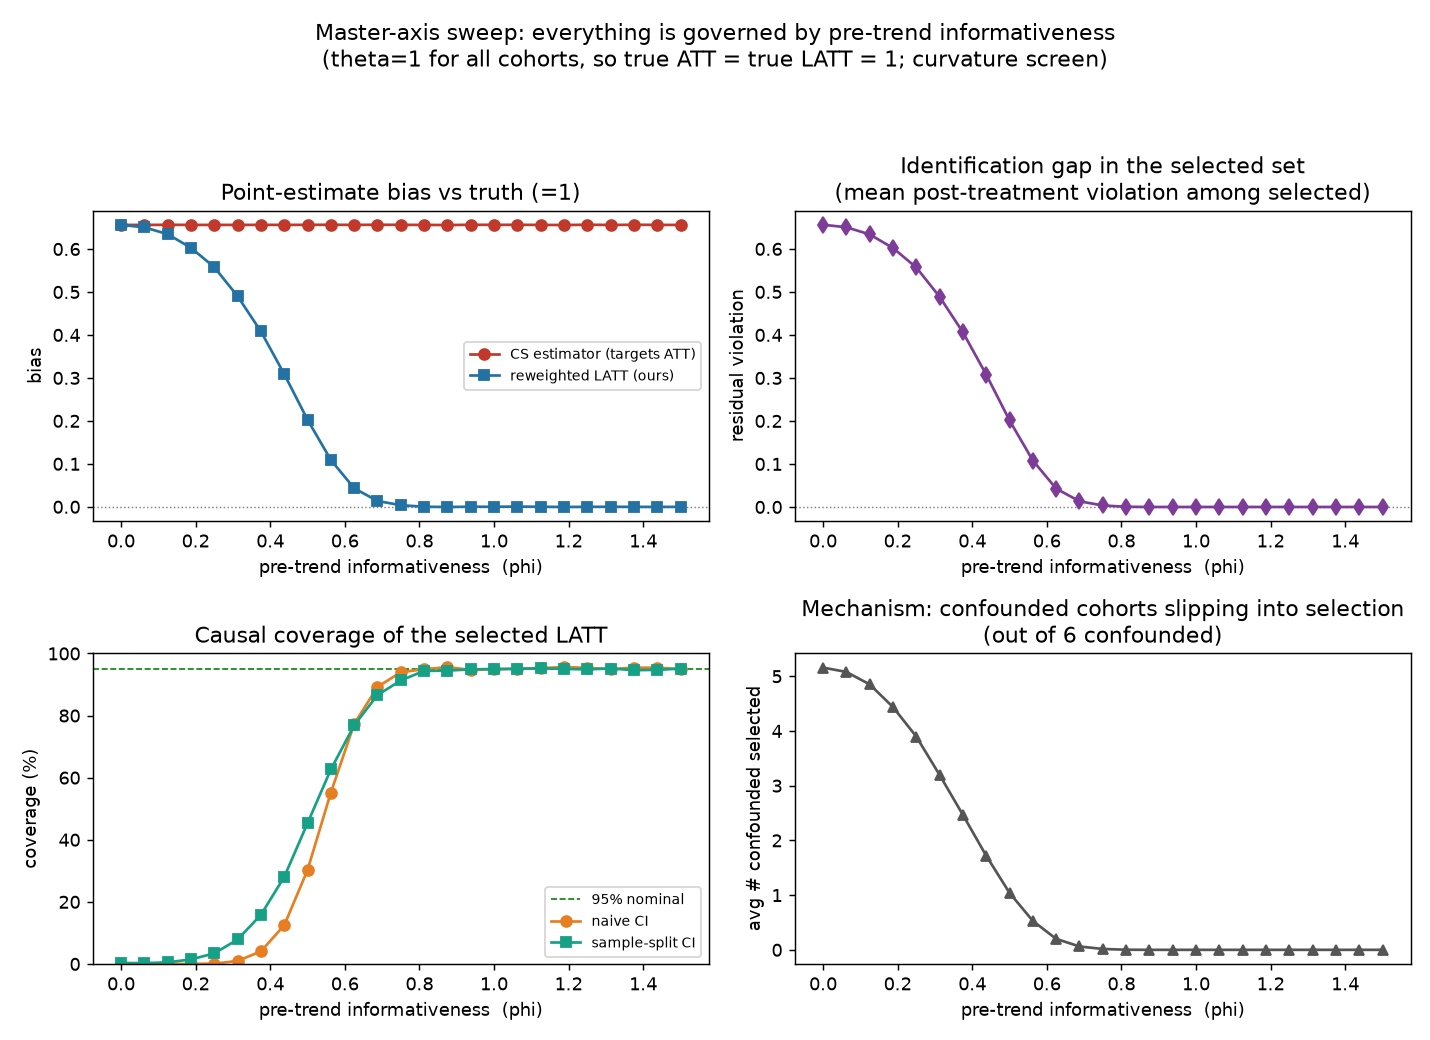
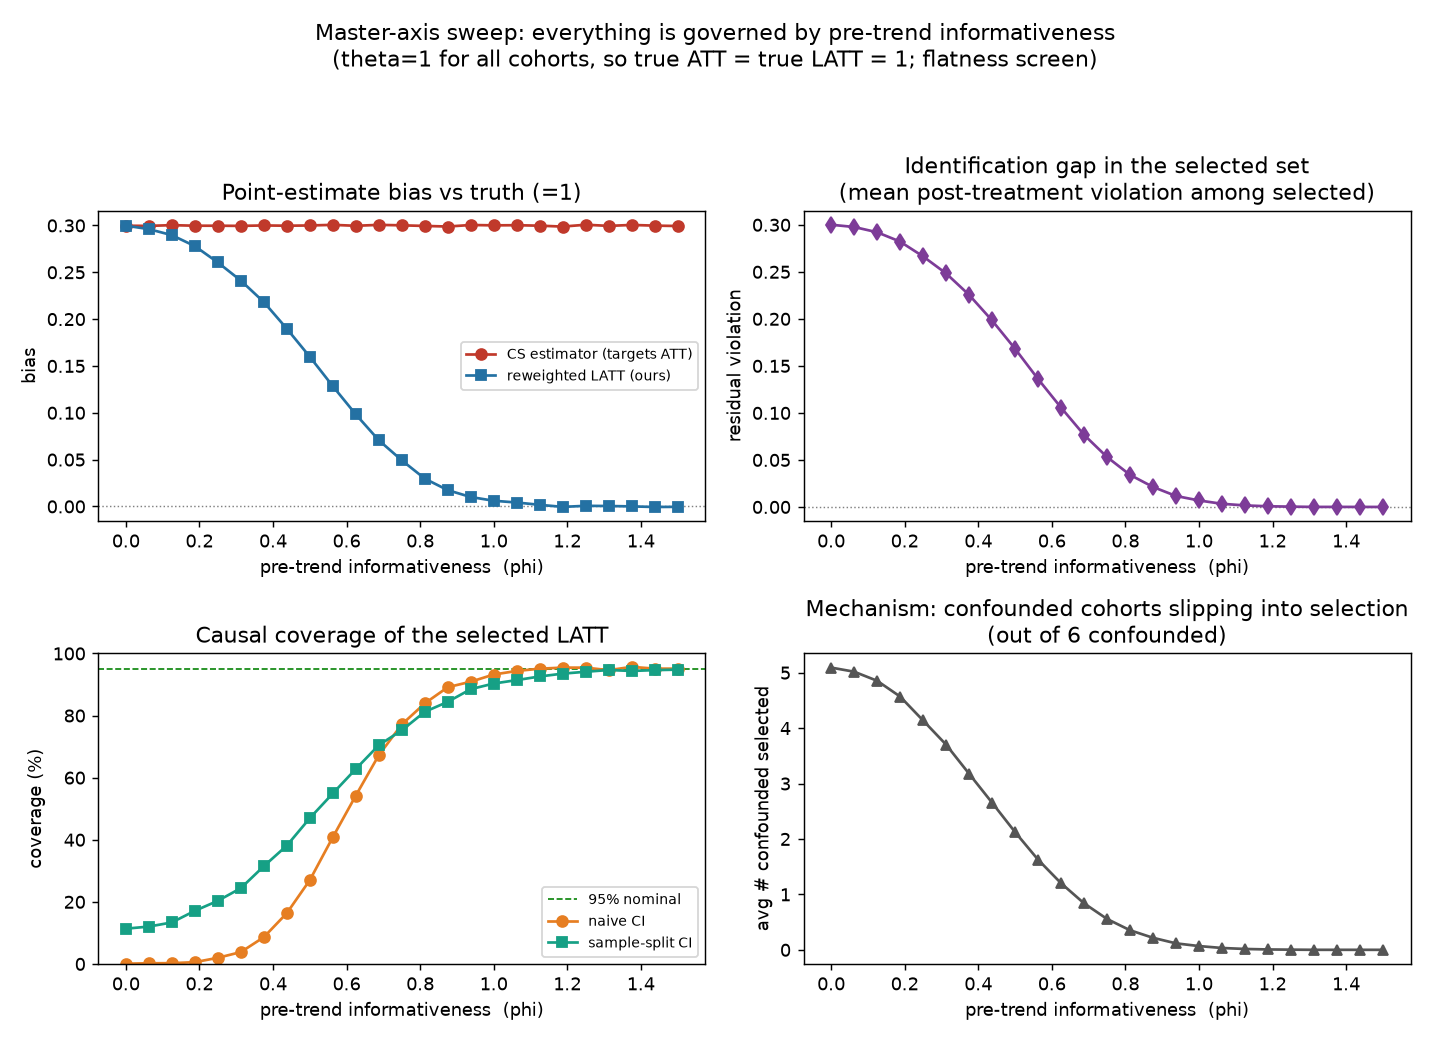
R4a: level-band tier1 + master_axis (flatness screen, level violation)
Revert the estimand and scope sims to the level/flatness world: confounded cohorts
carry a post-treatment level violation V (pre foreshadow phi*V), the FLATNESS screen
max|beta_pre|<=c selects near-flat cohorts, and normal noise (no curvature-screen
precision penalty). Add layer2_full.flci_level (raw post-avg, max bias = M).

Numbers revert to the paper's originals:
- Table 1: CS/ATT bias +0.267, LATT +0.000; sweep LATT bias 0.015 -> 0.
- Scope: CS flat +0.30, LATT 0.30 -> 0, id-gap tracks, confounded slipping 5.09 -> 0.

diff --git a/tier1.py b/tier1.py
@@ -5,26 +5,22 @@ The estimand demonstration. When some cohorts violate parallel trends,
   - the CS estimator aims at the full ATT and MISSES (biased point estimate),
   - our reweighted LATT aims at the credible-subpopulation effect and HITS it.
 
-Unified with the inference tier: a full event study (4 pre, 4 post, reference
-e=0), a curved differential trend, and the CURVATURE screen (max |pre-period
-second difference|, via L2.max_abs_second_diff), the same functional the SD(M)
-FLCI bounds. A confounded cohort has a curved trend with pre-period curvature
-phi*C and post-period curvature C (phi = informativeness). At phi=1 the confound
-is fully foreshadowed in the pre-period, so the screen can detect it.
+Level/flatness world (the paper's main framework): parallel trends means a flat
+treated-comparison difference, so a violation is a level shift of that difference.
+A confounded cohort has a post-treatment level violation V, foreshadowed in the
+pre-period as phi*V (phi = informativeness). The screen is the FLATNESS screen
+(max |pre-coefficient| <= c), and honest inference is the level bound
+Delta_Level(M)={|delta_post(e)|<=M} (developed in tier1b / the calibration cell).
 
 Per cohort g, coefficients beta_g = tau_g + delta_g drawn ~ N(., Sigma) with a
 within-cohort AR(1) covariance:
     tau_g   = (0_pre, 1_post)                 # no anticipation; true effect = 1
-    delta_g = curved confound (clean: 0)
-Target aggregation = average post-treatment effect (l_post uniform), so the true
-ATT and true LATT are both 1 and any departure is a parallel-trends violation.
+    delta_g = (phi*V on pre, V on post)       # clean: 0
+Target aggregation = average post-treatment effect, so true ATT and true LATT are
+both 1 and any departure is a parallel-trends violation.
 
 CS  point estimate  = mean post-effect over ALL cohorts      (targets ATT)
 LATT point estimate = mean post-effect over SELECTED cohorts (targets LATT)
-
-Note the curvature screen needs more per-cohort precision than the old level
-screen (a second difference is a noisier functional), so the design uses a
-tighter sigma; the sample-size sweep spans useless-screen to precise-screen.
 """
 
 import numpy as np
@@ -32,16 +28,14 @@ import layer2_full as L2
 
 rng = np.random.default_rng(12345)
 
-pre_e, post_e = L2.pre_e, L2.post_e          # [-4..-1], [1..4]
+pre_e, post_e = L2.pre_e, L2.post_e
 npre, npost = L2.npre, L2.npost
-l_post = np.ones(npost) / npost              # target: average post-treatment effect
+l_post = np.ones(npost) / npost
 
 
-def confound(C, phi):
-    """Curved differential trend: pre curvature phi*C, post curvature C, delta_0=0."""
-    dpre = 0.5 * (phi * C) * (pre_e ** 2)
-    dpost = 0.5 * C * (post_e ** 2)
-    return np.concatenate([dpre, dpost])
+def confound(V, phi):
+    """Level violation: pre-period shift phi*V, post-period shift V, delta_0=0."""
+    return np.concatenate([np.full(npre, phi * V), np.full(npost, V)])
 
 
 def within_cov(sigma, rho, n):
@@ -50,52 +44,41 @@ def within_cov(sigma, rho, n):
     return (sigma ** 2) * R
 
 
-def run_scenario(theta, C, phi, sigma, rho, c, n_reps, label):
-    """theta: per-cohort true effect; confounded cohorts have C>0."""
+def run_scenario(theta, V, phi, sigma, rho, c, n_reps, label):
     G = len(theta)
     theta = np.asarray(theta, float)
-    Cvec = np.asarray(C, float)
-    clean_mask = (Cvec == 0.0)
+    Vvec = np.asarray(V, float)
+    clean_mask = (Vvec == 0.0)
 
-    tau = np.concatenate([np.zeros(npre), np.ones(npost)])
-    # per-cohort mean: tau scaled to the cohort's true effect on the post block, plus confound
     means = np.array([
-        np.concatenate([np.zeros(npre), np.full(npost, theta[g])]) + confound(Cvec[g], phi)
+        np.concatenate([np.zeros(npre), np.full(npost, theta[g])]) + confound(Vvec[g], phi)
         for g in range(G)
     ])
-    # post-effect violation actually carried into the average-post aggregation
-    post_viol = np.array([confound(Cvec[g], phi)[npre:] @ l_post for g in range(G)])
-
     true_ATT = theta.mean()
     true_LATT_clean = theta[clean_mask].mean()
 
     Sig = within_cov(sigma, rho, npre + npost)
     Lc = np.linalg.cholesky(Sig)
 
-    cs_est = np.empty(n_reps)
-    latt_est = np.empty(n_reps)
-    n_sel = np.empty(n_reps, int)
-    dirty_in = np.zeros(n_reps, int)
-    clean_out = np.zeros(n_reps, int)
+    cs_est = np.empty(n_reps); latt_est = np.empty(n_reps)
+    n_sel = np.empty(n_reps, int); dirty_in = np.zeros(n_reps, int); clean_out = np.zeros(n_reps, int)
 
     for r in range(n_reps):
-        B = means + (Lc @ rng.standard_normal((npre + npost, G))).T   # (G, 8)
-        post_eff = B[:, npre:] @ l_post                               # avg post effect per cohort
-        stat = L2.max_abs_second_diff(B[:, :npre])                    # curvature screen statistic
+        B = means + (Lc @ rng.standard_normal((npre + npost, G))).T
+        post_eff = B[:, npre:] @ l_post
+        stat = np.max(np.abs(B[:, :npre]), axis=1)          # FLATNESS screen (magnitude)
         sel = stat <= c
         if sel.sum() == 0:
-            sel = (stat == stat.min())                               # keep single most credible cohort
+            sel = (stat == stat.min())
         cs_est[r] = post_eff.mean()
         latt_est[r] = post_eff[sel].mean()
         n_sel[r] = sel.sum()
-        dirty_in[r] = np.sum(sel & ~clean_mask)
-        clean_out[r] = np.sum(~sel & clean_mask)
+        dirty_in[r] = np.sum(sel & ~clean_mask); clean_out[r] = np.sum(~sel & clean_mask)
 
     if label is not None:
         print(f"\n===== {label} =====")
         print(f"  cohorts: {G} ({clean_mask.sum()} clean, {(~clean_mask).sum()} confounded), "
-              f"C={Cvec[~clean_mask][:1]}, phi={phi}, c={c}, sigma={sigma}, rho={rho}, reps={n_reps}")
-        print(f"  post-effect violation per confounded cohort = {post_viol[~clean_mask][:1]}")
+              f"V={Vvec[~clean_mask][:1]}, phi={phi}, c={c}, sigma={sigma}, rho={rho}, reps={n_reps}")
         print(f"  TRUE ATT (all)    = {true_ATT:.4f}   <- CS targets")
         print(f"  TRUE LATT (clean) = {true_LATT_clean:.4f}   <- we target")
         print("  ----------------------------------------------------------------")
@@ -103,41 +86,35 @@ def run_scenario(theta, C, phi, sigma, rho, c, n_reps, label):
         print(f"  LATT estimate: mean={latt_est.mean():.4f}  bias vs LATT={latt_est.mean()-true_LATT_clean:+.4f}")
         print("  ----------------------------------------------------------------")
         print(f"  avg # selected = {n_sel.mean():.2f}/{G}  "
-              f"(confounded wrongly kept: {dirty_in.mean():.3f}, clean wrongly dropped: {clean_out.mean():.3f})")
+              f"(confounded kept: {dirty_in.mean():.3f}, clean dropped: {clean_out.mean():.3f})")
     return dict(true_ATT=true_ATT, true_LATT=true_LATT_clean, cs=cs_est, latt=latt_est)
 
 
 # ---------------- Scenario A: isolate the violation bias ----------------
-# All cohorts share the SAME true effect (1). true ATT == true LATT == 1.
-# CS moves off 1 only because of the parallel-trends VIOLATION in the confounded cohorts.
-C_DIRTY = 0.35        # confounded post-curvature (matches inference-tier "dirty")
+V_DIRTY = 0.8
 resA = run_scenario(
     theta=[1, 1, 1, 1, 1, 1],
-    C=[0, 0, 0, 0, C_DIRTY, C_DIRTY], phi=1.0,
-    sigma=0.07, rho=0.5, c=0.22, n_reps=20000,
+    V=[0, 0, 0, 0, V_DIRTY, V_DIRTY], phi=1.0,
+    sigma=0.25, rho=0.5, c=0.40, n_reps=20000,
     label="Scenario A - violation bias isolated (true ATT = true LATT = 1.0)")
 
 # ---------------- Scenario B: estimand divergence ----------------
-# Confounded cohorts ALSO have a different true effect (1.6): true ATT != true LATT.
 resB = run_scenario(
     theta=[1, 1, 1, 1, 1.6, 1.6],
-    C=[0, 0, 0, 0, C_DIRTY, C_DIRTY], phi=1.0,
-    sigma=0.07, rho=0.5, c=0.22, n_reps=20000,
+    V=[0, 0, 0, 0, V_DIRTY, V_DIRTY], phi=1.0,
+    sigma=0.25, rho=0.5, c=0.40, n_reps=20000,
     label="Scenario B - estimand divergence (true ATT != true LATT)")
 
 
 # ---------------- Sample-size sweep (Scenario A) ----------------
-# Prediction: LATT bias -> 0 as precision grows (pre-test bias vanishes, screen sharpens),
-#             while CS bias PERSISTS (wrong target, not a noise problem).
 print("\n\n===== Sample-size sweep (Scenario A): LATT bias vanishes, CS bias persists? =====")
 print(f"  {'sigma':>8} | {'CS mean':>8} {'CS bias':>8} | {'LATT mean':>9} {'LATT bias':>9} | {'avg#sel':>7}")
-for s in [0.30, 0.20, 0.12, 0.07, 0.04, 0.02]:
+for s in [0.40, 0.30, 0.20, 0.12, 0.07, 0.03]:
     G = 6
     theta = np.ones(G)
-    Cvec = np.array([0, 0, 0, 0, C_DIRTY, C_DIRTY], float)
-    clean_mask = (Cvec == 0.0)
+    Vvec = np.array([0, 0, 0, 0, V_DIRTY, V_DIRTY], float)
     means = np.array([
-        np.concatenate([np.zeros(npre), np.full(npost, theta[g])]) + confound(Cvec[g], 1.0)
+        np.concatenate([np.zeros(npre), np.full(npost, 1.0)]) + confound(Vvec[g], 1.0)
         for g in range(G)])
     Lc = np.linalg.cholesky(within_cov(s, 0.5, npre + npost))
     NR = 20000
@@ -145,8 +122,8 @@ for s in [0.30, 0.20, 0.12, 0.07, 0.04, 0.02]:
     for i in range(NR):
         B = means + (Lc @ rng.standard_normal((npre + npost, G))).T
         post_eff = B[:, npre:] @ l_post
-        stat = L2.max_abs_second_diff(B[:, :npre])
-        sel = stat <= 0.22
+        stat = np.max(np.abs(B[:, :npre]), axis=1)
+        sel = stat <= 0.40
         if sel.sum() == 0: sel = (stat == stat.min())
         cs[i] = post_eff.mean(); la[i] = post_eff[sel].mean(); nsel[i] = sel.sum()
     print(f"  {s:8.2f} | {cs.mean():8.4f} {cs.mean()-1.0:+8.4f} | "

diff --git a/master_axis.py b/master_axis.py
@@ -3,25 +3,19 @@ Master-axis sweep (reduced-form normal model, 4+4 event study)
 --------------------------------------------------------------
 x-axis = INFORMATIVENESS phi of pre-trends: how strongly a post-treatment
          parallel-trends violation reveals itself in the pre-period.
-         phi high -> confound's curvature is foreshadowed pre -> screen excludes it -> survivors clean
-         phi = 0  -> confound flat in pre, curved post -> passes the screen -> survivors dirty
+         phi high -> confound's level shift is foreshadowed pre -> screen excludes it -> survivors clean
+         phi = 0  -> confound flat in pre, shifted post -> passes the screen -> survivors dirty
 
-Unified with the rest of the simulation section: a full event study (4 pre, 4
-post, reference e=0), a curved differential trend, and the CURVATURE screen
-(max |pre-period second difference|), the same functional the SD(M) FLCI bounds.
+Level/flatness world (the paper's main framework). A confounded cohort has a
+post-treatment level violation V and a pre-period foreshadow phi*V; the FLATNESS
+screen (max |pre-coefficient| <= c) keeps cohorts whose pre-difference is near flat.
 
-Design (theta = 1 for every cohort, so true ATT = true LATT = 1; any movement off
-1 is bias, not effect heterogeneity):
+Design (theta = 1 for every cohort, so true ATT = true LATT = 1):
     - N_clean clean cohorts:      delta = 0
-    - N_conf  confounded cohorts: delta_e = (phi*C/2) e^2 for e<0, (C/2) e^2 for e>0
-      -> pre-period curvature = phi*C (the screen signal), post-period curvature = C
-Target aggregation = average post-treatment effect (l_post uniform).
+    - N_conf  confounded cohorts: delta_pre = phi*V, delta_post = V
+Target aggregation = average post-treatment effect.
     CS   = mean post-effect over ALL cohorts   (targets ATT = 1)
     LATT = mean post-effect over SELECTED      (targets credible-subpop effect = 1)
-
-We sweep phi and record CS/LATT bias, the identification gap of the selected set,
-causal coverage of naive and sample-split CIs, and the number of confounded
-cohorts slipping through the screen.
 """
 
 import numpy as np
@@ -37,22 +31,19 @@ pre_e, post_e = L2.pre_e, L2.post_e
 npre, npost = L2.npre, L2.npost
 l_post = np.ones(npost) / npost
 
-# ---- fixed DGP knobs ----
 N_clean, N_conf = 6, 6
 G = N_clean + N_conf
-theta = np.ones(G)                 # true effect = 1 for all -> true ATT = true LATT = 1
-C = 0.35                           # confounded post-period curvature (matches inference-tier "dirty")
-sigma = 0.07                       # per-coefficient sampling sd (curvature screen needs precision)
-rho = 0.5                          # within-cohort AR(1) sampling correlation
-c = 0.22                           # curvature-screen threshold
+theta = np.ones(G)
+V = 0.6                            # post-treatment level violation of confounded cohorts
+sigma = 0.20
+rho = 0.5
+c = 0.40                           # flatness-screen threshold
 n_reps = 8000
 z = norm.ppf(0.975)
 
 
-def confound(Cc, phi):
-    dpre = 0.5 * (phi * Cc) * (pre_e ** 2)
-    dpost = 0.5 * Cc * (post_e ** 2)
-    return np.concatenate([dpre, dpost])
+def confound(Vv, phi):
+    return np.concatenate([np.full(npre, phi * Vv), np.full(npost, Vv)])
 
 
 def within_cov(sig, rr, n):
@@ -63,7 +54,7 @@ def within_cov(sig, rr, n):
 
 Sig = within_cov(sigma, rho, npre + npost)
 Lc = np.linalg.cholesky(Sig)
-sigma_post1 = np.sqrt(l_post @ Sig[npre:, npre:] @ l_post)   # SE of one cohort's avg post effect
+sigma_post1 = np.sqrt(l_post @ Sig[npre:, npre:] @ l_post)
 clean_mask = np.array([True] * N_clean + [False] * N_conf)
 tau_block = np.concatenate([np.zeros(npre), np.ones(npost)])
 
@@ -73,12 +64,8 @@ TRUE = 1.0
 cs_bias, latt_bias, id_gap, cov_naive, cov_split, conf_included = [], [], [], [], [], []
 
 for phi in info_grid:
-    means = np.array([
-        tau_block + (confound(C, phi) if not clean_mask[g] else 0.0) for g in range(G)
-    ])
-    post_viol = np.array([
-        (confound(C, phi)[npre:] @ l_post) if not clean_mask[g] else 0.0 for g in range(G)
-    ])
+    means = np.array([tau_block + (confound(V, phi) if not clean_mask[g] else 0.0) for g in range(G)])
+    post_viol = np.array([(confound(V, phi)[npre:] @ l_post) if not clean_mask[g] else 0.0 for g in range(G)])
 
     cs_e = np.empty(n_reps); la_e = np.empty(n_reps)
     gap = np.empty(n_reps); nc = np.empty(n_reps)
@@ -87,82 +74,66 @@ for phi in info_grid:
     for r in range(n_reps):
         B = means + (Lc @ rng.standard_normal((npre + npost, G))).T
         post_eff = B[:, npre:] @ l_post
-        stat = L2.max_abs_second_diff(B[:, :npre])
+        stat = np.max(np.abs(B[:, :npre]), axis=1)               # FLATNESS screen
         sel = stat <= c
         if sel.sum() == 0:
             sel = (stat == stat.min())
         cs_e[r] = post_eff.mean()
         la_e[r] = post_eff[sel].mean()
-        gap[r] = post_viol[sel].mean()                       # identification gap in selected set
+        gap[r] = post_viol[sel].mean()
         nc[r] = np.sum(sel & ~clean_mask)
         se = sigma_post1 / np.sqrt(sel.sum())
         cn[r] = (la_e[r] - z*se <= theta[sel].mean() <= la_e[r] + z*se)
-        # sample-splitting honest benchmark: select on h1, estimate on h2 (independent, sqrt(2) noise)
         B1 = means + (Lc @ rng.standard_normal((npre + npost, G))).T * np.sqrt(2)
         B2 = means + (Lc @ rng.standard_normal((npre + npost, G))).T * np.sqrt(2)
-        stat1 = L2.max_abs_second_diff(B1[:, :npre])
-        s1 = stat1 <= c
+        s1 = np.max(np.abs(B1[:, :npre]), axis=1) <= c
         if s1.sum() == 0:
-            s1 = (stat1 == stat1.min())
+            st = np.max(np.abs(B1[:, :npre]), axis=1); s1 = (st == st.min())
         est2 = (B2[:, npre:] @ l_post)[s1].mean(); se2 = (sigma_post1 * np.sqrt(2)) / np.sqrt(s1.sum())
         csp[r] = (est2 - z*se2 <= theta[s1].mean() <= est2 + z*se2)
 
-    cs_bias.append(cs_e.mean() - TRUE)
-    latt_bias.append(la_e.mean() - TRUE)
-    id_gap.append(gap.mean())
-    cov_naive.append(cn.mean() * 100)
-    cov_split.append(csp.mean() * 100)
-    conf_included.append(nc.mean())
+    cs_bias.append(cs_e.mean() - TRUE); latt_bias.append(la_e.mean() - TRUE)
+    id_gap.append(gap.mean()); cov_naive.append(cn.mean() * 100)
+    cov_split.append(csp.mean() * 100); conf_included.append(nc.mean())
 
 cs_bias = np.array(cs_bias); latt_bias = np.array(latt_bias)
 id_gap = np.array(id_gap); cov_naive = np.array(cov_naive)
 cov_split = np.array(cov_split); conf_included = np.array(conf_included)
 
-# ------------- print a compact table -------------
-print(f"{'phi':>5} | {'CS bias':>8} {'LATT bias':>9} | {'id-gap':>7} | "
-      f"{'naive%':>7} {'split%':>7} | {'#conf in':>8}")
+print(f"{'phi':>5} | {'CS bias':>8} {'LATT bias':>9} | {'id-gap':>7} | {'naive%':>7} {'split%':>7} | {'#conf in':>8}")
 for i in range(0, len(info_grid), 2):
     print(f"{info_grid[i]:5.2f} | {cs_bias[i]:+8.3f} {latt_bias[i]:+9.3f} | "
           f"{id_gap[i]:7.3f} | {cov_naive[i]:7.1f} {cov_split[i]:7.1f} | {conf_included[i]:8.2f}")
 
-# ------------- figure -------------
 fig, ax = plt.subplots(2, 2, figsize=(11, 8))
 fig.suptitle("Master-axis sweep: everything is governed by pre-trend informativeness\n"
-             "(theta=1 for all cohorts, so true ATT = true LATT = 1; curvature screen)", fontsize=12)
+             "(theta=1 for all cohorts, so true ATT = true LATT = 1; flatness screen)", fontsize=12)
 
 a = ax[0, 0]
 a.axhline(0, color="gray", lw=.8, ls=":")
 a.plot(info_grid, cs_bias, "o-", color="#c0392b", label="CS estimator (targets ATT)")
 a.plot(info_grid, latt_bias, "s-", color="#2471a3", label="reweighted LATT (ours)")
 a.set_title("Point-estimate bias vs truth (=1)")
-a.set_xlabel("pre-trend informativeness  (phi)")
-a.set_ylabel("bias")
-a.legend(fontsize=8)
+a.set_xlabel("pre-trend informativeness  (phi)"); a.set_ylabel("bias"); a.legend(fontsize=8)
 
 a = ax[0, 1]
 a.axhline(0, color="gray", lw=.8, ls=":")
 a.plot(info_grid, id_gap, "d-", color="#7d3c98")
 a.set_title("Identification gap in the selected set\n(mean post-treatment violation among selected)")
-a.set_xlabel("pre-trend informativeness  (phi)")
-a.set_ylabel("residual violation")
+a.set_xlabel("pre-trend informativeness  (phi)"); a.set_ylabel("residual violation")
 
 a = ax[1, 0]
 a.axhline(95, color="green", lw=.9, ls="--", label="95% nominal")
 a.plot(info_grid, cov_naive, "o-", color="#e67e22", label="naive CI")
 a.plot(info_grid, cov_split, "s-", color="#16a085", label="sample-split CI")
 a.set_title("Causal coverage of the selected LATT")
-a.set_xlabel("pre-trend informativeness  (phi)")
-a.set_ylabel("coverage (%)")
-a.set_ylim(0, 100)
-a.legend(fontsize=8)
+a.set_xlabel("pre-trend informativeness  (phi)"); a.set_ylabel("coverage (%)"); a.set_ylim(0, 100); a.legend(fontsize=8)
 
 a = ax[1, 1]
 a.plot(info_grid, conf_included, "^-", color="#555555")
 a.set_title("Mechanism: confounded cohorts slipping into selection\n(out of 6 confounded)")
-a.set_xlabel("pre-trend informativeness  (phi)")
-a.set_ylabel("avg # confounded selected")
+a.set_xlabel("pre-trend informativeness  (phi)"); a.set_ylabel("avg # confounded selected")
 
 plt.tight_layout(rect=[0, 0, 1, 0.94])
-out = "master_axis.png"
-plt.savefig(out, dpi=130)
-print(f"\nSaved figure -> {out}")
+plt.savefig("master_axis.png", dpi=130)
+print("\nSaved figure -> master_axis.png")

diff --git a/layer2_full.py b/layer2_full.py
@@ -122,6 +122,14 @@ def delta_quadratic(C):
     return np.array([0.5 * C * (e ** 2) for e in np.concatenate([pre_e, post_e])])
 
 
+def flci_level(post_avg, sigma_agg, M, alpha=0.05):
+    """Level-bound FLCI. Estimator = raw post-treatment average (no extrapolation). Under
+    Delta_Level(M)={|delta_post(e)|<=M} the max bias of the post-average is exactly M, so the
+    half-length is cv(M/sigma)*sigma. Returns (center, half). M is in outcome units."""
+    half = cv(M / sigma_agg, alpha) * sigma_agg
+    return post_avg, half
+
+
 def max_abs_second_diff(B_pre):
     """
     Curvature screen statistic: max_e |b(e-1) - 2 b(e) + b(e+1)| over the pre-period.
